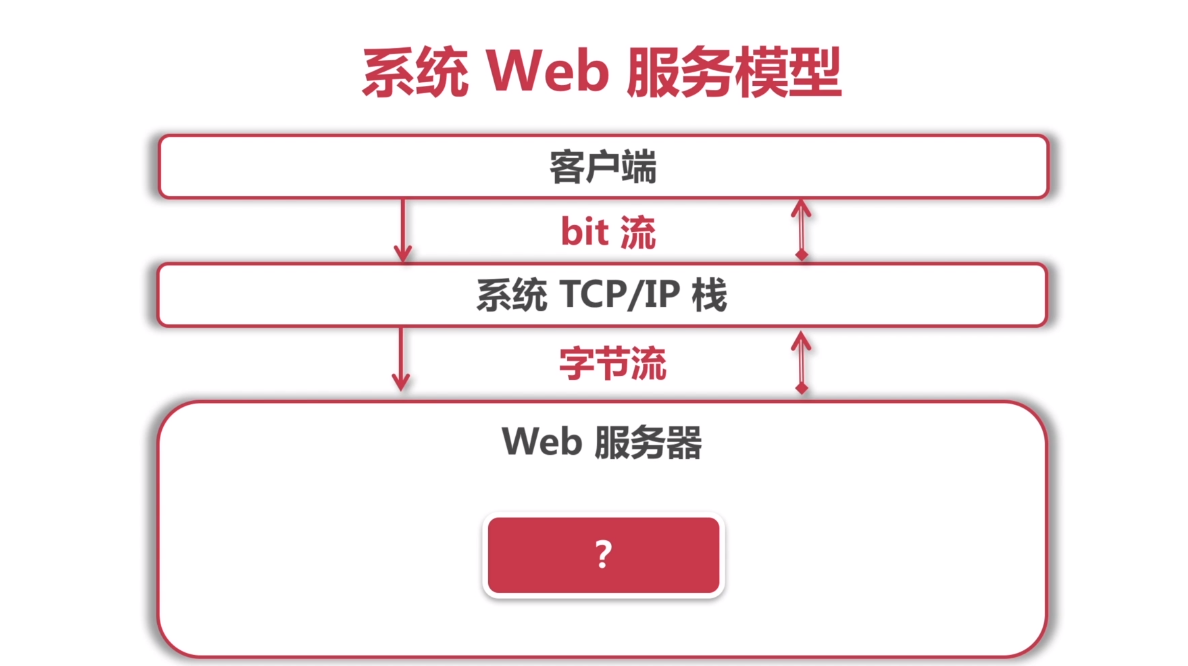
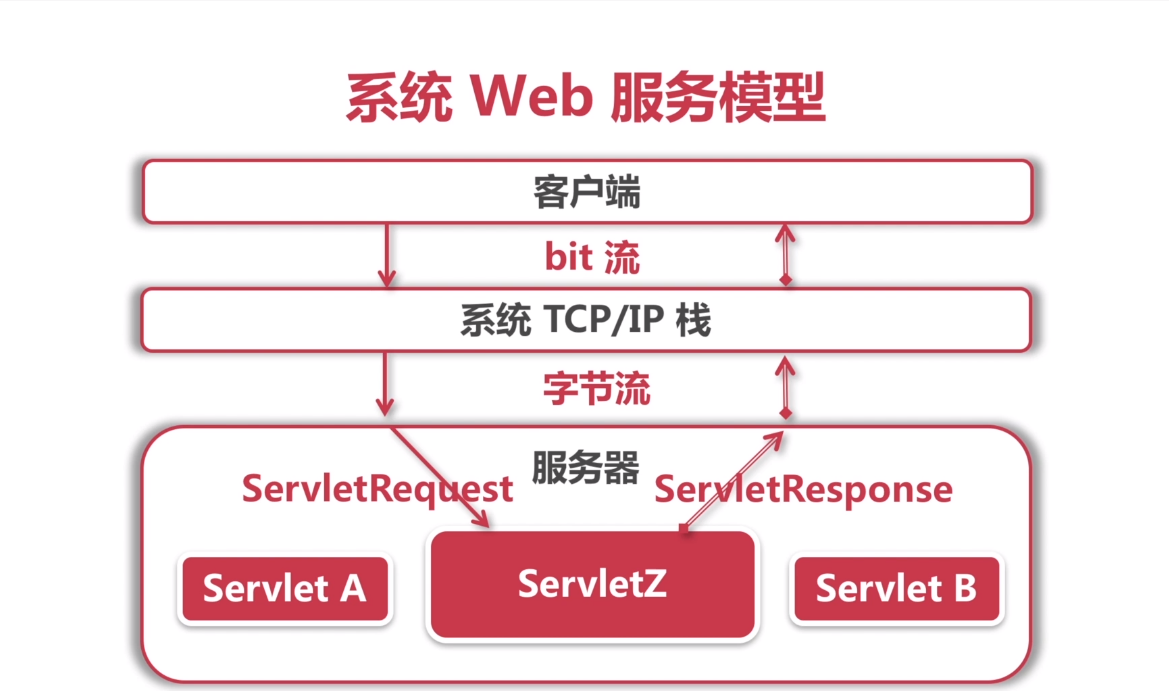
inti

Changed region(s): [[0.0924, 0.0601, 0.8931, 1.0], [0.8623, 0.9309, 0.8931, 0.961], [0.8315, 0.961, 0.8623, 0.991]]

diff --git a/framework/src/main/java/com/wgj/web/server/TomcatServer.java b/framework/src/main/java/com/wgj/web/server/TomcatServer.java
@@ -1,0 +1,65 @@
+package com.wgj.web.server;
+
+import com.wgj.web.servlet.TestServlet;
+import org.apache.catalina.Context;
+import org.apache.catalina.LifecycleException;
+import org.apache.catalina.core.StandardContext;
+import org.apache.catalina.startup.Tomcat;
+
+/**
+ * @author Guojian Wang
+ * @version 1.0
+ * @date 2019/7/27 - 2:00
+ * @since 1.0
+ * ━━━━━━神兽出没━━━━━━
+ * 　　　┏┓　　　┏┓
+ * 　　┏┛┻━━━┛┻┓
+ * 　　┃　　　　　　　┃
+ * 　　┃　　　━　　　┃
+ * 　　┃　┳┛　┗┳　┃
+ * 　　┃　　　　　　　┃
+ * 　　┃　　　┻　　　┃
+ * 　　┃　　　　　　　┃
+ * 　　┗━┓　　　┏━┛
+ * 　　　　┃　　　┃神兽保佑, 永无BUG!
+ * 　　　　 ┃　　　┃Code is far away from bug with the animal protecting
+ * 　　　　┃　　　┗━━━┓
+ * 　　　　┃　　　　　　　┣┓
+ * 　　　　┃　　　　　　　┏┛
+ * 　　　　┗┓┓┏━┳┓┏┛
+ * 　　　　　┃┫┫　┃┫┫
+ * 　　　　　┗┻┛　┗┻┛
+ * ━━━━━━感觉萌萌哒━━━━━━
+ */
+public class TomcatServer {
+    private Tomcat tomcat;
+
+    private String[] args;
+
+    public TomcatServer(String[] args) {
+        this.args = args;
+    }
+
+    public void startServer() throws LifecycleException {
+        tomcat = new Tomcat();
+        tomcat.setPort(6699);
+        tomcat.start();
+
+        Context context = new StandardContext();
+        context.setPath("");
+        context.addLifecycleListener(new Tomcat.FixContextListener());
+        TestServlet servlet = new TestServlet();
+        Tomcat.addServlet(context, "testServlet", servlet).setAsyncSupported(true);
+        context.addServletMappingDecoded("/test.json", "testServlet");
+        tomcat.getHost().addChild(context);
+
+        Thread awaitThread = new Thread("tomcat_await_thread") {
+            @Override
+            public void run() {
+                TomcatServer.this.tomcat.getServer().await();
+            }
+        };
+        awaitThread.setDaemon(false);
+        awaitThread.start();
+    }
+}

diff --git a/framework/src/main/java/com/wgj/web/servlet/TestServlet.java b/framework/src/main/java/com/wgj/web/servlet/TestServlet.java
@@ -1,12 +1,12 @@
-package com.wgj.starter;
+package com.wgj.web.servlet;
 
-import com.wgj.web.server.TomcatServer;
-import org.apache.catalina.LifecycleException;
+import javax.servlet.*;
+import java.io.IOException;
 
 /**
  * @author Guojian Wang
  * @version 1.0
- * @date 2019/7/27 - 0:46
+ * @date 2019/7/27 - 2:23
  * @since 1.0
  * ━━━━━━神兽出没━━━━━━
  * 　　　┏┓　　　┏┓
@@ -28,14 +28,31 @@ import org.apache.catalina.LifecycleException;
  * 　　　　　┗┻┛　┗┻┛
  * ━━━━━━感觉萌萌哒━━━━━━
  */
-public class MiniApplication {
-    public static void run(Class<?> cls, String[] args) {
-        System.out.println("Hello mini-spring!");
-        TomcatServer tomcatServer = new TomcatServer(args);
-        try {
-            tomcatServer.startServer();
-        } catch (LifecycleException e) {
-            e.printStackTrace();
-        }
+public class TestServlet implements Servlet {
+    @Override
+    public void init(ServletConfig servletConfig) throws ServletException {
+
+    }
+
+    @Override
+    public ServletConfig getServletConfig() {
+        return null;
+    }
+
+    @Override
+    public void service(ServletRequest request, ServletResponse response) throws ServletException,
+            IOException {
+        response.getWriter().println("test");
+
+    }
+
+    @Override
+    public String getServletInfo() {
+        return null;
+    }
+
+    @Override
+    public void destroy() {
+
     }
 }

diff --git a/README.md b/README.md
@@ -2,18 +2,16 @@
 >> * [模块结构](#模块结构)
 >> * [Spring包结构](#Spring包结构)
 >> * [结构设计](#结构设计)
->>    * [实现Core模块，包括core、beans、context包](#实现Core模块，包括core、beans、context包)
->>    * [实现Web，集成web和webmvc](#实现Web，集成web和webmvc)
->>    * [添加statrer，实现类spring-boot的启动方式](#添加statrer，实现类spring-boot的启动方式)
->> * [服务器和Servlet](服务器和Servlet)
->>    * [Web服务器](Web服务器)
->>        * [监听一个TCP端口](#监听一个TCP端口)
->>        * [本身没有业务逻辑，连接操作系统和应用程序代码](#本身没有业务逻辑，连接操作系统和应用程序代码)
-        * [本身没有业务逻辑，连接操作系统和应用程序代码](#本身没有业务逻辑，连接操作系统和应用程序代码)
+>>      * [实现Core模块，包括core、beans、context包](#实现Core模块，包括core、beans、context包)
+>>      * [实现Web，集成web和webmvc](#实现Web，集成web和webmvc)
+>>      * [添加statrer，实现类spring-boot的启动方式](#添加statrer，实现类spring-boot的启动方式)
+>> * [服务器和Servlet](#服务器和Servlet)
+>>      * [Web服务器](#Web服务器)
 >> * [系统Web服务模型](#系统Web服务模型)
->>    * [请求分发流程](#请求分发流程)
->>    * [Servlet](#Servlet)
->>         * [一种规范：约束了Java服务器与业务类的通信方式](#一种规范：约束了Java服务器与业务类的通信方式)      
+>>      * [请求分发流程](#请求分发流程)
+>>      * [Servlet](#Servlet)
+>> * [Tomcat](#Tomcat)
+>> * [Servlet的维护](#Servlet的维护)
 ># 模块结构
    ![image text](images/模块结构.png)
 ># Spring包结构
@@ -37,4 +35,15 @@
    ![image text](images/请求分发流程.png)
 >>## ***`Servlet`**
 >>>### ****`一种规范：约束了Java服务器与业务类的通信方式`***
-   
+>>>### ****`一个接口：javax.servlet.Servlet`***
+>>>### ****`一种Java类：实现了Servlet接口的应用程序类`***
+
+># Tomcat
+>>## ***`Java原生，运行在JVM上`**
+>>## ***`多种并发模型，高性能`**
+>>## ***`支持嵌入式应用程序`**
+
+># Servlet的维护
+>>## ****`由服务器调度配置`*
+>>## ***`使用web.xml中性化配置`**
+>>## ***`每种业务添加一个Servlet，对应一个URI`**
